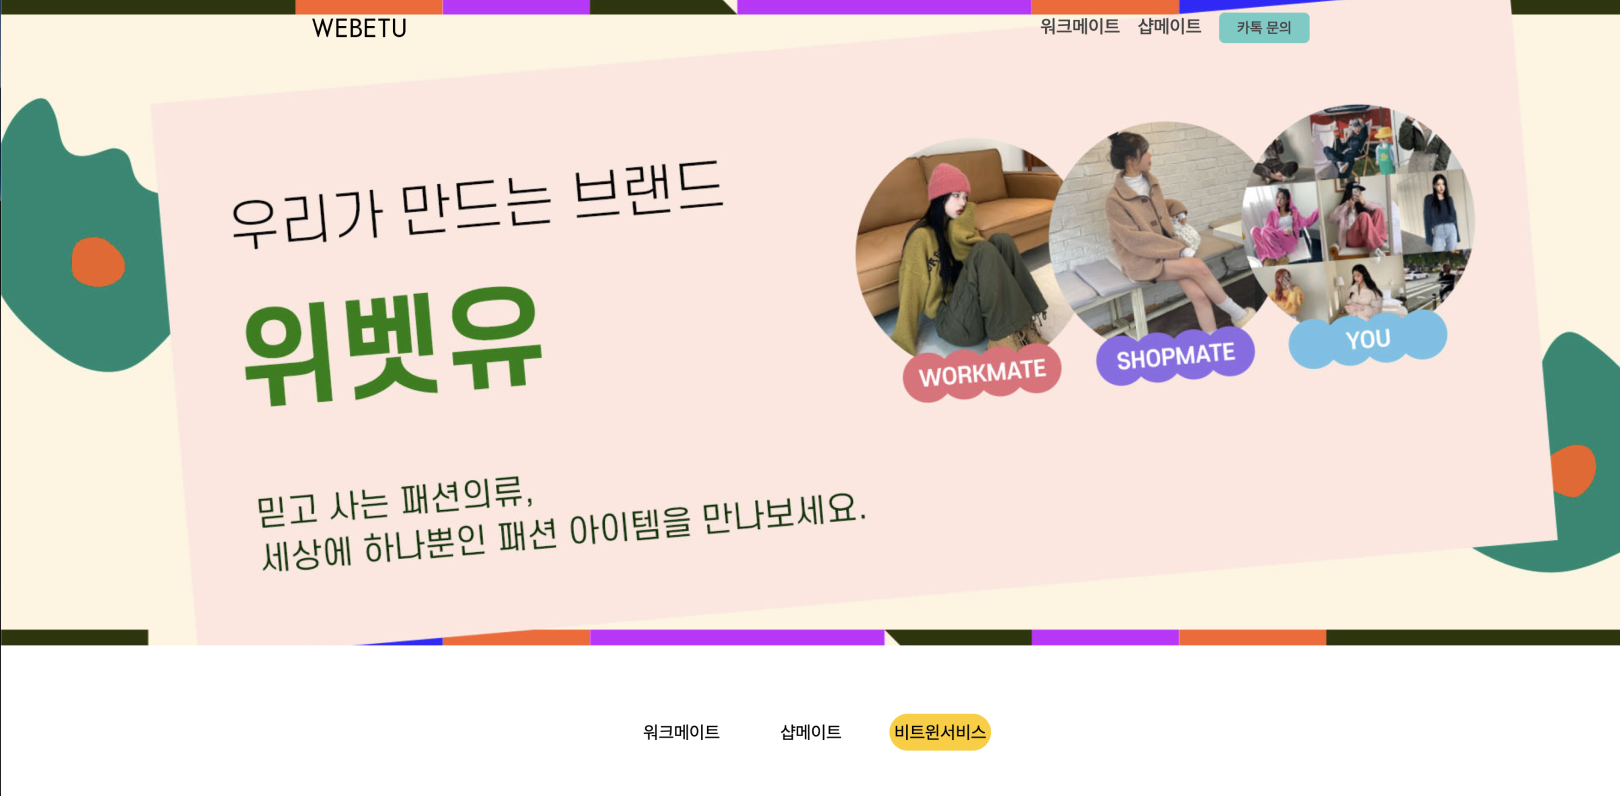
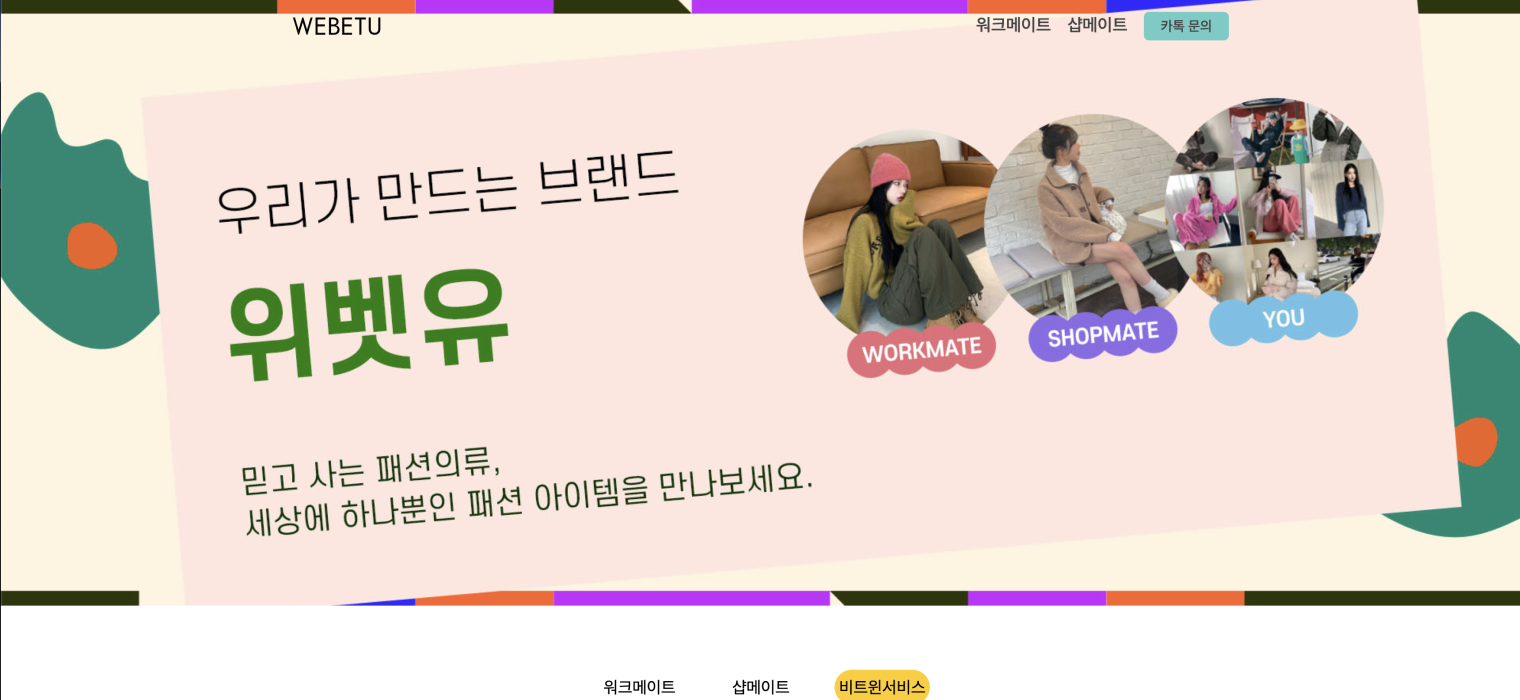
work 프레임 크기 수정

diff --git a/src/styles/work-frame.css b/src/styles/work-frame.css
@@ -2,16 +2,16 @@
 .notice p{ font-size: 1.5em; text-align: center;}
 
 .Work_Area{ position: relative; height: 100vh; box-sizing: border-box; }
-.Work_Wrap{ position: absolute; top: 50%; left: 50%; transform: translate(-50%,-50%); width: clamp(1000px, 91.0938vw, 1620px); height: clamp(570px, 51.5625vw, 920px); outline: 3px solid #000; border-radius: 15px 15px 0 0; } 
+.Work_Wrap{ position: absolute; top: 50%; left: 50%; transform: translate(-50%,-50%); width: clamp(1000px, 79.1667vw, 1520px); height: clamp(570px, 42.7083vw, 820px); outline: 3px solid #000; border-radius: 15px 15px 0 0; } 
 
 .icon_Wrap{ position: absolute; top: 1.8%; left: 1.3%; z-index: 100; width: clamp(56px, 4.3750vw, 84px); height: clamp(12px, 0.9375vw, 18px); display: flex; justify-content: space-between; }
 .icon{ width: clamp(12px, 0.9375vw, 18px); height: clamp(12px, 0.9375vw, 18px); background-color: #3d3d3d; border-radius: 50%; box-sizing: border-box;}
 
-.Top_Wrap{ position: relative; background: #000; width: 100%; border-radius: 10px 10px 0 0; box-sizing: border-box; }
+.Top_Wrap{ position: relative; background: #000; width: 100%; border-radius: 10px 10px 0 0; box-sizing: border-box; height: clamp(35px, 2.6042vw, 50px); }
 
 .Bottom_Area{ width: 100%; height: 100%; }
 
-.fix{ width: 100%; height: clamp(50px, 4.0104vw, 76px); background-color: #3d3d3d; box-sizing: border-box; position: fixed; top: 5.3%; z-index: 1;}
+.fix{ width: 100%; height: clamp(50px, 3.6458vw, 70px); background-color: #3d3d3d; box-sizing: border-box; position: fixed; top: 5.9%; z-index: 1;}
 
 .fixIconWrap{ position: absolute; top: 50%; left: 1.3%; transform: translate(0,-50%); z-index: 100; width: clamp(58px, 5.2083vw, 100px); max-width: 100px; height: clamp(12px, 1.0417vw, 20px); display: flex; justify-content: space-between;}
 .fixIcon{ position: relative; width: clamp(12px, 1.0417vw, 20px); height: clamp(12px, 1.0417vw, 20px); }
@@ -20,11 +20,11 @@
 
 /* Swiper */
 
-.Top_Wrap .WorkTab{ display : flex; justify-content : left; align-items : center; margin-top: 0.3vw; height: clamp(30px, 2.5000vw, 48px); border-radius: 10px 10px 0 0; padding-left: 1.5%; box-sizing: border-box; }
+.Top_Wrap .WorkTab{ display : flex; justify-content : left; align-items : center; margin-top: clamp(5px, 0.3125vw, 6px); height: clamp(30px, 2.2917vw, 44px); border-radius: 10px 10px 0 0; padding-left: 1.5%; box-sizing: border-box; }
 .WorkTab::after{content: ""; display: block; width: clamp(0.5px, 0.0521vw, 1px); height: clamp(12px, 1.0417vw, 20px); background-color: #6a6a6a; position: absolute; top: 50%; right: 0; transform: translate(0,-50%);}
-.Top_Wrap .WorkTab p{ color: #BEBEBE; font-family: 'Noto Sans KR', sans-serif; font-size: clamp(12px, 1.0417vw, 20px); }
+.Top_Wrap .WorkTab p{ color: #BEBEBE; font-family: 'Noto Sans KR', sans-serif; font-size: clamp(12px, 0.9375vw, 18px); }
 .Top_Wrap .swiper-slide-thumb-active{ background: #3d3d3d;}
-.Top_Wrap .swiper-slide-thumb-active::after{content: ""; display: block; width: clamp(0.5px, 0.1042vw, 2px); max-width: 2px; height: clamp(14px, 11.0417vw, 20px); background-color: #000; position: absolute; top: 50%; left: -1%; transform: translate(0,-50%);}
+.Top_Wrap .swiper-slide-thumb-active::after{content: ""; display: block; width: clamp(0.5px, 0.1042vw, 2px); max-width: 2px; height: clamp(14px, 11.0417vw, 20px); background-color: #000; position: absolute; top: 50%; left: -1.5%; transform: translate(0,-50%);}
 
 .Top_Wrap .swiper-wrapper{ margin-left: 8%;}
 

diff --git a/src/components/work/work.css b/src/components/work/work.css
@@ -1,7 +1,7 @@
-.httpWrap{ position: relative; width: 100%; height: clamp(40px, 3.7500vw, 70px); background-color: transparent; box-sizing: border-box; }
+.httpWrap{ position: relative; width: 100%; height: clamp(50px, 3.6458vw, 70px); background-color: transparent; box-sizing: border-box; }
 .httpWrap h2{ position: absolute; top: 50%; left: 11%; transform: translate(0, -50%); font-size: clamp(16px, 1.2500vw, 24px); color: #ABABAB; font-family: 'Noto Sans KR', sans-serif; box-sizing: border-box;}
 
-.imgWrap{ position: relative; width: 100%; height: clamp(485px, 45.1042vw, 796px); }
-.imgWrap img{ position: absolute; top: 0; width: 100%; } 
+.imgWrap{ position: relative; width: 100%; height: clamp(485px, 36.4583vw, 700px); }
+.imgWrap img{ position: absolute; top: 0; width: 100%; height: 100%; } 
 
 

diff --git a/src/components/modal/modal.js b/src/components/modal/modal.js
@@ -17,10 +17,10 @@ function Accordion({ title, content }) {
             right:"2%",
             zIndex:"20",
             backgroundColor: "#000",
-            width: "clamp(140px, 13.0208vw, 280px)",
-            height:"clamp(60px, 5.2083vw, 100px)",
+            width: "clamp(120px, 10.4167vw, 200px)",
+            height:"clamp(55px, 4.1667vw, 80px)",
             color: "#fff",
-            fontSize:"clamp(24px, 2.5vw, 48px)",
+            fontSize:"clamp(24px, 1.8750vw, 36px)",
             fontWeight:"700"
         }}
         >

diff --git a/src/components/work/sevennft/sevennft.js b/src/components/work/sevennft/sevennft.js
@@ -19,7 +19,7 @@ function Nalazoo (){
                 <div>
                   
                   <div className="httpWrap">
-                    <h2 className="Webhttp">https://webetu.co.kr/main</h2>
+                    <h2 className="Webhttp">https://cryptose7en.io/</h2>
                   </div>
                   <div className="imgWrap">
                     <Modal

diff --git a/src/components/work/sevennft/seven_about.js b/src/components/work/sevennft/seven_about.js
@@ -4,7 +4,7 @@ import { Link } from "react-router-dom";
 import "../work-about.css"
 
 function Nalazooabout() {
-    const url = "https://m.webetu.co.kr/main"
+    const url = "https://cryptose7en.io/"
 
   return (
     <>
